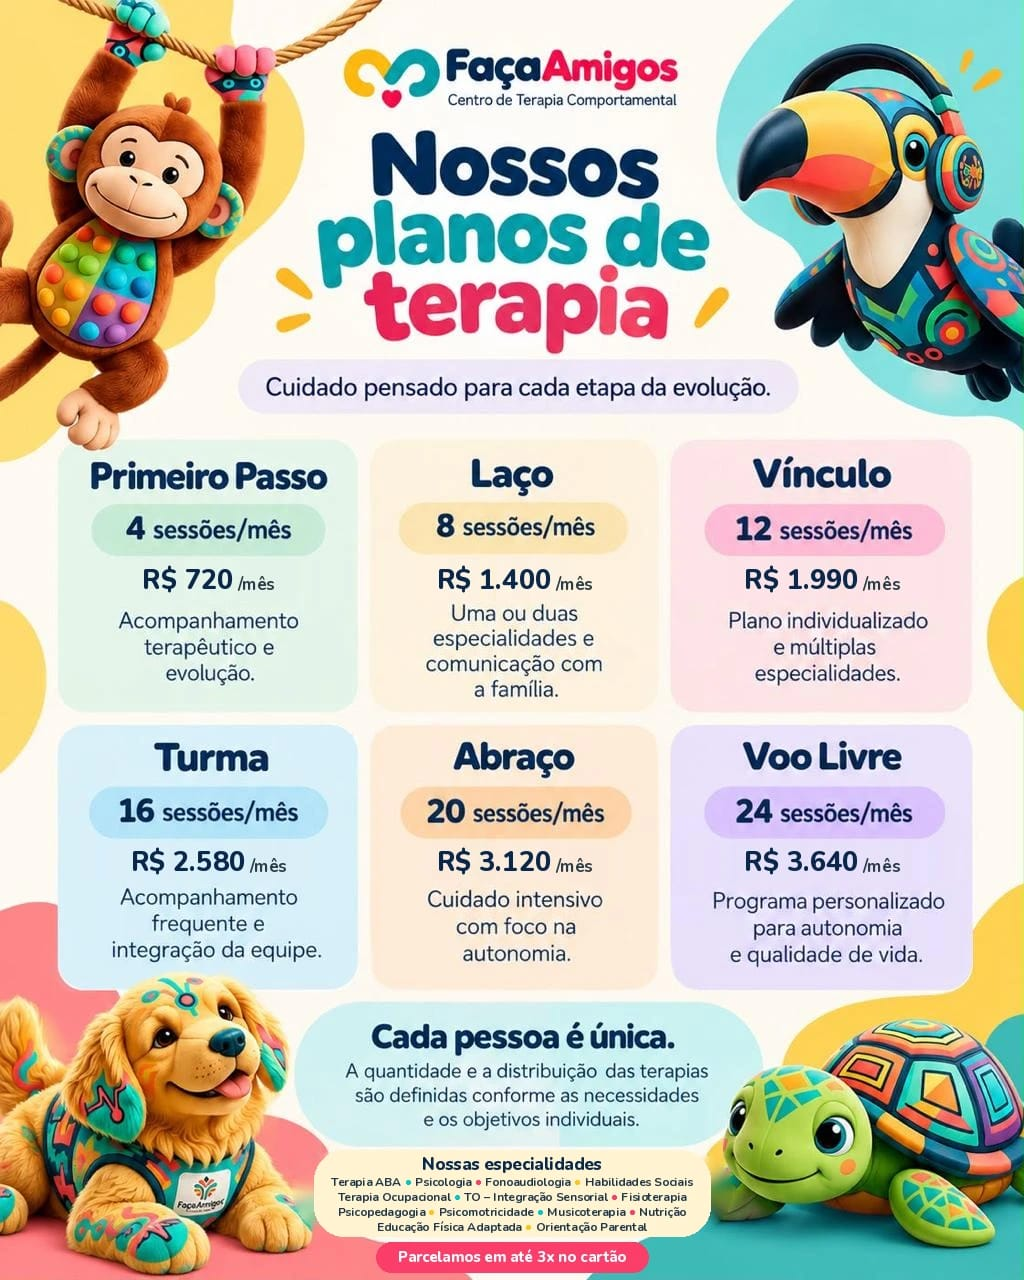
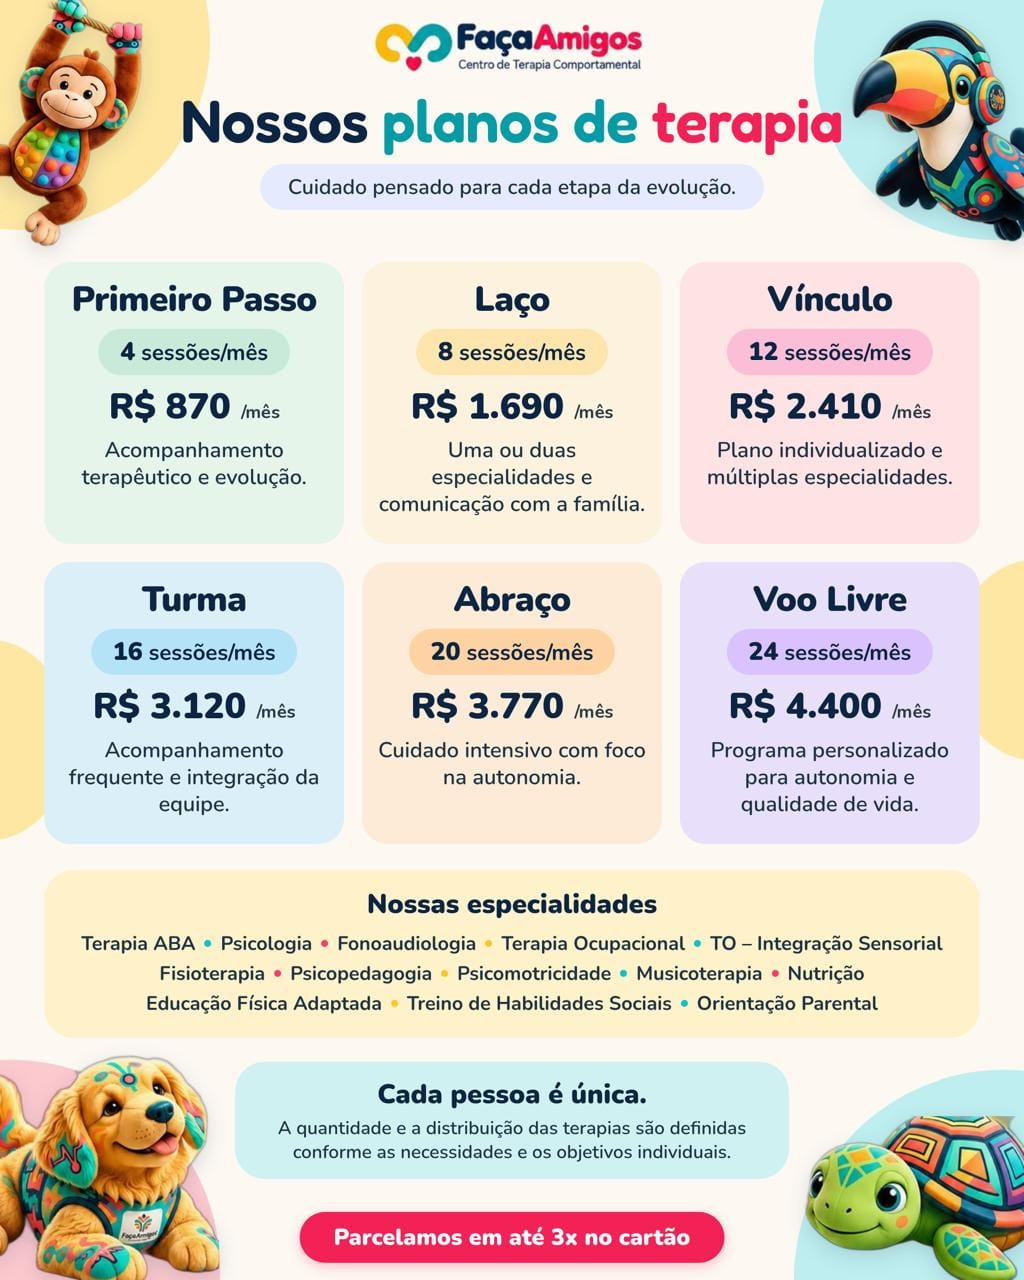
Chatbot: nova arte e valores dos planos particulares (#193)
Troca public/chatbot/planos-particular.jpg e atualiza o fallback em código
(Primeiro Passo 870, Laço 1.690, Vínculo 2.410, Turma 3.120, Abraço 3.770,
Voo Livre 4.400) e os testes.

Claude-Session: https://claude.ai/code/session_017CkKxCeZ18jnX2MJvK3txv

diff --git a/tests/welcome-menu-pure.test.ts b/tests/welcome-menu-pure.test.ts
@@ -163,19 +163,19 @@ test("terapias: 14 nomes comerciais, sem duplicata, dentro do limite do WhatsApp
 
 test("planos particulares: valores do dono e menor valor por sessão", () => {
   const byName = Object.fromEntries(PARTICULAR_PLANS.map((p) => [p.name, p]));
-  assert.equal(byName["Laço"].price, 1400);
+  assert.equal(byName["Laço"].price, 1690);
   assert.equal(byName["Voo Livre"].sessions, 24);
-  assert.equal(Math.round(lowestPricePerSession(PARTICULAR_PLANS) * 100) / 100, 151.67);
+  assert.equal(Math.round(lowestPricePerSession(PARTICULAR_PLANS) * 100) / 100, 183.33);
 
   const text = buildParticularPricesText();
-  for (const price of ["R$ 190", "R$ 720", "R$ 1.400", "R$ 1.990", "R$ 2.580", "R$ 3.120", "R$ 3.640", "R$ 2.500"]) {
+  for (const price of ["R$ 190", "R$ 870", "R$ 1.690", "R$ 2.410", "R$ 3.120", "R$ 3.770", "R$ 4.400", "R$ 2.500"]) {
     assert.ok(text.includes(price), price);
   }
   // Regras confirmadas: avaliação conta como 1 sessão, ABA conta 3, parcelamento em 3x.
   assert.match(text, /avaliação inicial conta como 1 sessão/);
   assert.match(text, /Treino ABA[^.]*3 sessões/);
   assert.match(text, /3x no cartão/);
-  assert.match(buildParticularPricesCaption(), /R\$ 151,67/);
+  assert.match(buildParticularPricesCaption(), /R\$ 183,33/);
 });
 
 test("plano de saúde: intro lista os convênios e pergunta o nome do responsável", () => {

diff --git a/lib/welcome-menu-pure.ts b/lib/welcome-menu-pure.ts
@@ -246,12 +246,12 @@ export type ParticularPlan = { name: string; sessions: number; price: number };
 
 export const PARTICULAR_PLANS: ParticularPlan[] = [
   { name: "Encontro (sessão avulsa)", sessions: 1, price: 190 },
-  { name: "Primeiro Passo", sessions: 4, price: 720 },
-  { name: "Laço", sessions: 8, price: 1400 },
-  { name: "Vínculo", sessions: 12, price: 1990 },
-  { name: "Turma", sessions: 16, price: 2580 },
-  { name: "Abraço", sessions: 20, price: 3120 },
-  { name: "Voo Livre", sessions: 24, price: 3640 },
+  { name: "Primeiro Passo", sessions: 4, price: 870 },
+  { name: "Laço", sessions: 8, price: 1690 },
+  { name: "Vínculo", sessions: 12, price: 2410 },
+  { name: "Turma", sessions: 16, price: 3120 },
+  { name: "Abraço", sessions: 20, price: 3770 },
+  { name: "Voo Livre", sessions: 24, price: 4400 },
 ];
 
 export const NEURO_EVALUATION_PRICE = 2500;
@@ -262,7 +262,7 @@ export function formatBrl(value: number): string {
   return brl(value);
 }
 
-/** Menor valor por sessão entre os planos (ex.: Voo Livre = R$ 151,67). */
+/** Menor valor por sessão entre os planos (ex.: Voo Livre = R$ 183,33). */
 export function lowestPricePerSession(plans: ParticularPlan[]): number {
   return Math.min(...plans.map((p) => p.price / p.sessions));
 }
